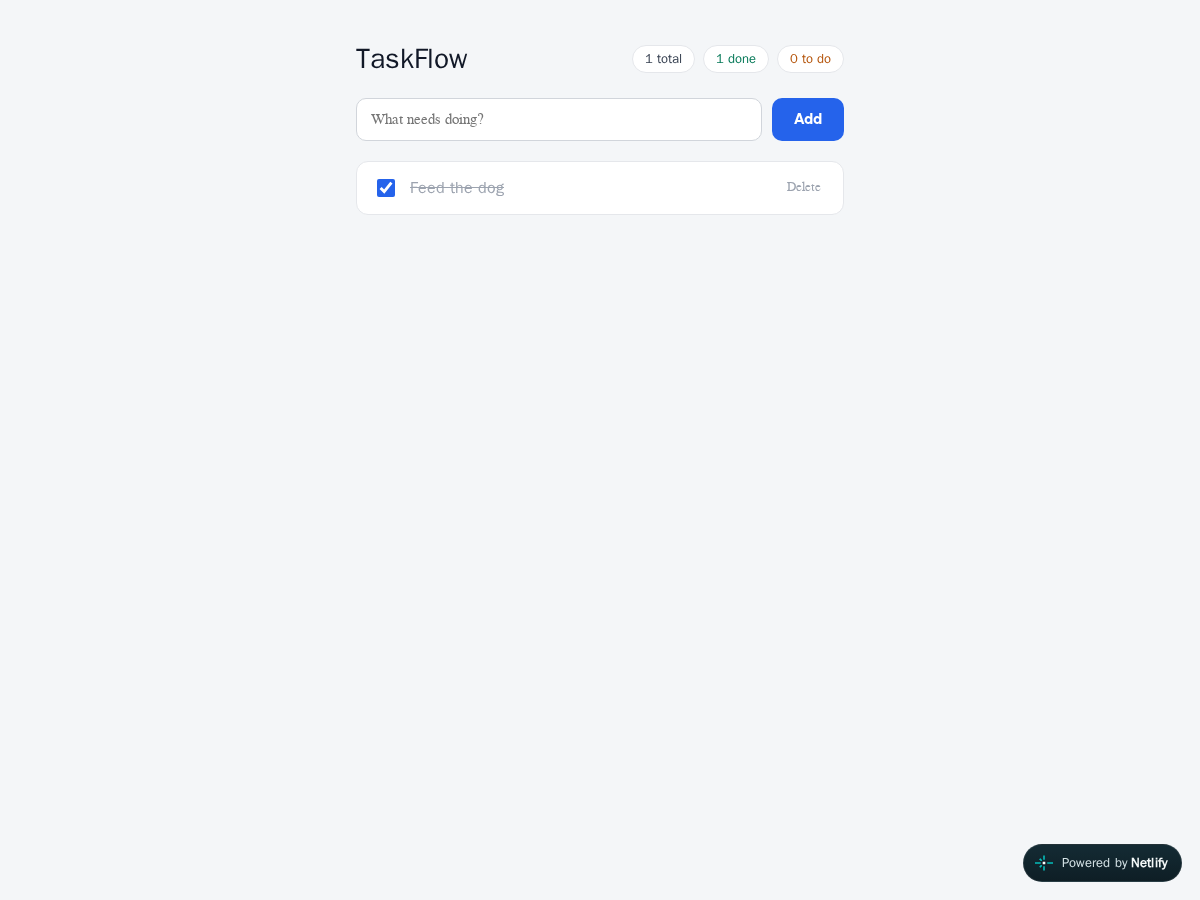
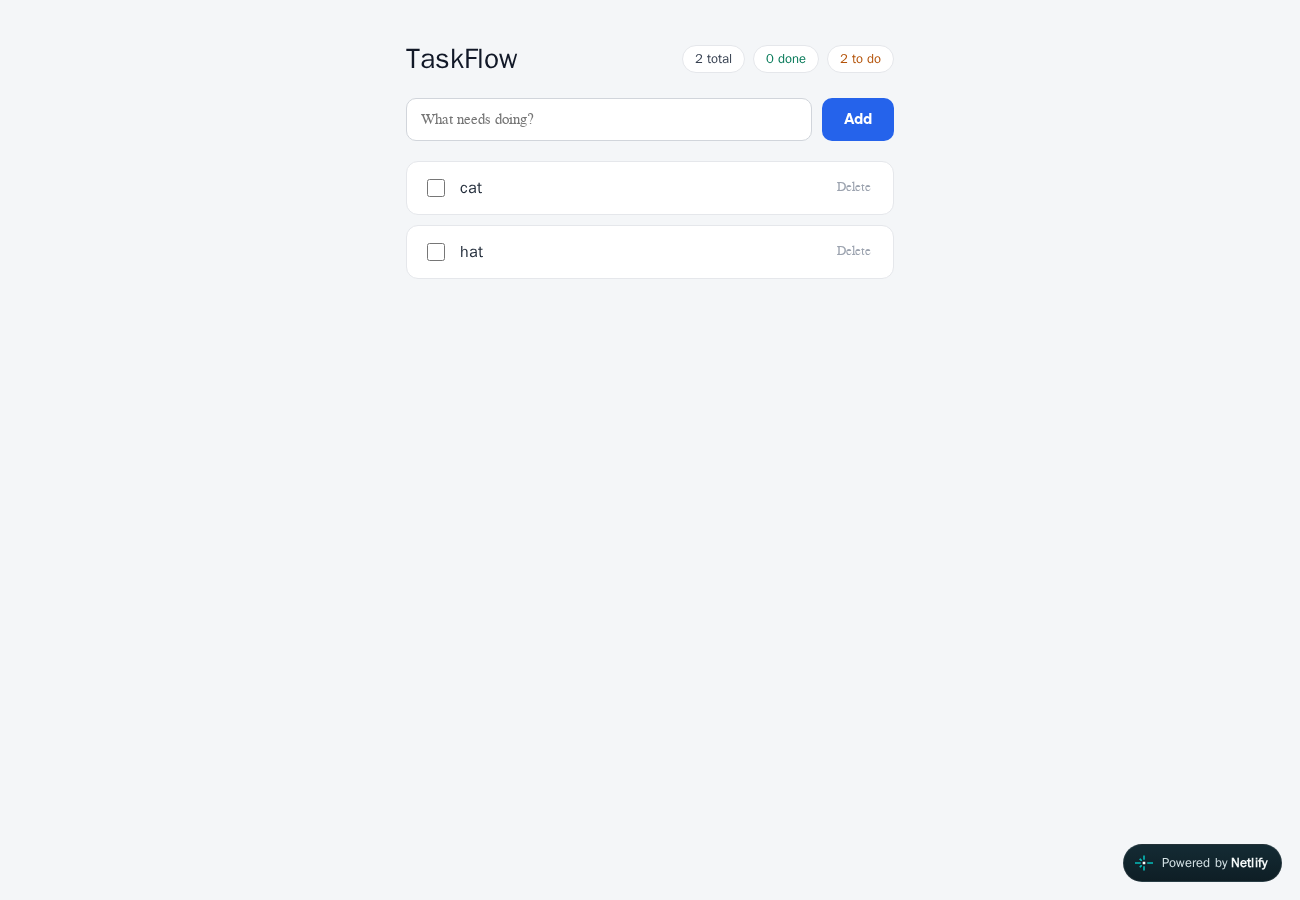
Option 4: document the versioning scheme + Docker Hub tags screenshot
- README: new 'Option 4 - Published, versioned images' section explaining the
  three tags (latest / SemVer from pom / sha-<commit>), why the version is
  derived rather than typed, and the runtime /api/tasks/version check
- README: /api/tasks/version added to the endpoints table and the smoke-test
  transcript; publish job description corrected from two tags to three
- README: frontend URL was stale (capable-licorice-a9c632 no longer resolves,
  returns 404) - updated to ntu-taskflow.netlify.app throughout, including the
  CORS origin evidence; frontend screenshot retaken from the live site
- screenshots: dockerhub-tags.png showing latest, sha-21f4efe, 1.1.0, 1.0.0

diff --git a/README.md b/README.md
@@ -143,7 +143,7 @@ reaches `main`):
    PASS  GET /999999 -> 404   PASS  GET /1 -> 200
    PASS  POST -> created id 1 PASS  DELETE /1 -> 200
    PASS  PUT /1 -> 200        PASS  GET /1 -> 404
-   PASS  GET /summary -> 200
+   PASS  GET /summary -> 200  PASS  GET /version -> 200 (reports 1.1.0)
    ```
 
    The project has no JUnit classes, so `mvn test` passes vacuously — this step is
@@ -152,9 +152,9 @@ reaches `main`):
 
 **`publish`** (only on `main`, only after `build` passes, so a failing change
 can never reach the registry): builds from the repository's `Dockerfile` via
-`setup_remote_docker` and pushes two tags: `latest` (the tag the Railway service
-tracks) and the short commit SHA, so a published image stays traceable to its
-commit after `latest` has moved on.
+`setup_remote_docker` and pushes **three tags** — `latest` (the tag the Railway
+service tracks), the SemVer version read from `pom.xml`, and `sha-<short SHA>`.
+See [Option 4](#option-4--published-versioned-images) for why all three exist.
 
 **`deploy`** (after `publish`): asks Railway to pull the new image via the
 Railway CLI, installed with Railway's own installer because the npm package's
@@ -177,14 +177,14 @@ Docker Hub access token with Read & Write scope, never the account password.
 
 ### Option 2 — Frontend on Netlify
 
-**Live frontend: <https://capable-licorice-a9c632.netlify.app>**
+**Live frontend: <https://ntu-taskflow.netlify.app>**
 
 A small React single-page app that consumes the deployed TaskFlow API — no
 local backend, every call goes to the live Railway URL.
 
 | | |
 |---|---|
-| **Frontend URL** | <https://capable-licorice-a9c632.netlify.app> |
+| **Frontend URL** | <https://ntu-taskflow.netlify.app> |
 | **Hosted on** | Netlify (static build of `frontend/`, folder `frontend/` in this repo) |
 | **Stack** | Vite + React 19, state via Context + `useReducer` |
 | **API calls** | `GET /api/tasks`, `POST /api/tasks`, `PUT /api/tasks/{id}/complete`, `PUT /api/tasks/{id}`, `DELETE /api/tasks/{id}` |
@@ -216,8 +216,8 @@ the Vite dev origin. Verified by booting the packaged JAR locally and checking
 the preflight response:
 
 ```
-OPTIONS /api/tasks  (Origin: https://capable-licorice-a9c632.netlify.app)
-  -> Access-Control-Allow-Origin: https://capable-licorice-a9c632.netlify.app
+OPTIONS /api/tasks  (Origin: https://ntu-taskflow.netlify.app)
+  -> Access-Control-Allow-Origin: https://ntu-taskflow.netlify.app
      Access-Control-Allow-Methods: GET,POST,PUT,DELETE,OPTIONS
 ```
 
@@ -230,6 +230,53 @@ then deleted through the UI (`DELETE /api/tasks/{id} → 200`). No CORS error, n
 console message, and the counters returned to their original state afterwards.
 That is the end-to-end proof that the preflight response above is what the
 deployed image really answers, not just what the local JAR answered.
+
+### Option 4 — Published, versioned images
+
+Every build publishes **three tags**, not just `latest`:
+
+| Tag | Kind | Meaning |
+|---|---|---|
+| `latest` | moving | what the Railway service tracks; always the newest build |
+| `1.1.0` | SemVer | `MAJOR.MINOR.PATCH` (Lesson 4.5), read from `pom.xml` |
+| `sha-21f4efe` | immutable | short commit SHA of the build |
+
+**The version is derived, never typed.** The publish job parses the project
+version out of `pom.xml` — the first `<version>` *after* `</parent>`, so it
+cannot pick up the Spring Boot parent's version instead — strips a `-SNAPSHOT`
+suffix if present, and tags the image with it. Bumping `pom.xml` is therefore
+the only way to publish a new number, and an image cannot claim a version the
+code does not declare.
+
+The SHA tag covers the opposite need: `latest` and `1.1.0` both move as new
+builds land, but `sha-<commit>` always resolves to the build of that exact
+commit. When something is broken in production, `sha-<commit>` is the tag that
+identifies the binary you are actually looking at.
+
+SemVer as practised here: MAJOR for breaking API changes, MINOR for new
+endpoints, PATCH for fixes. `1.0.0` was the first release; `1.1.0` added
+`GET /api/tasks/version`.
+
+**Verifiable at runtime.** That new endpoint reads the version from the JAR
+manifest (the Spring Boot plugin copies the Maven version into it), so a
+running container can say which tag it came from — no dashboard required:
+
+```console
+$ curl https://module3-taskflow-api-production.up.railway.app/api/tasks/version
+{"version":"1.1.0"}
+```
+
+The CI smoke test asserts this and fails when the runtime version and the POM
+version disagree. A versioned image that lies about its version is worse than an
+unversioned one.
+
+Two released versions in Docker Hub, with `latest` pointing at the newer:
+
+![Docker Hub tags: latest, sha-21f4efe, 1.1.0, sha-3113023, 1.0.0](screenshots/dockerhub-tags.png)
+
+The bare-SHA tags further down the page (`40c3ccf`, `8bf0d75`) are from the
+earlier scheme, before the `sha-` prefix and the SemVer tags were added; they are
+left in place as history rather than deleted.
 
 ### Option 5 — dependency security checks
 
@@ -257,6 +304,7 @@ container-scan gap — is in [`SECURITY.md`](SECURITY.md).
 | PUT | `/api/tasks/{id}/complete` | mark a task complete |
 | DELETE | `/api/tasks/{id}` | delete a task |
 | GET | `/api/tasks/summary` | AI-generated plain-English summary |
+| GET | `/api/tasks/version` | deployed build version from the JAR manifest |
 
 ---
 
@@ -372,7 +420,7 @@ The CORS build is nevertheless **live**. The image published by pipeline run
 [#6](https://app.circleci.com/pipelines/gh/siewsphone/module3-taskflow-api/6)
 (`sha256:d76b8646…`, pushed 21 Oct) was pulled by Railway on 24 Oct 02:02 UTC,
 and the deployed instance now answers the preflight with
-`Access-Control-Allow-Origin: https://capable-licorice-a9c632.netlify.app`,
+`Access-Control-Allow-Origin: https://ntu-taskflow.netlify.app`,
 `Access-Control-Allow-Methods: GET,POST,PUT,DELETE,OPTIONS` and
 `Access-Control-Max-Age: 1800`. The end-to-end check was run from a headless
 browser sitting on the Netlify origin: `GET /api/tasks → 200`,
